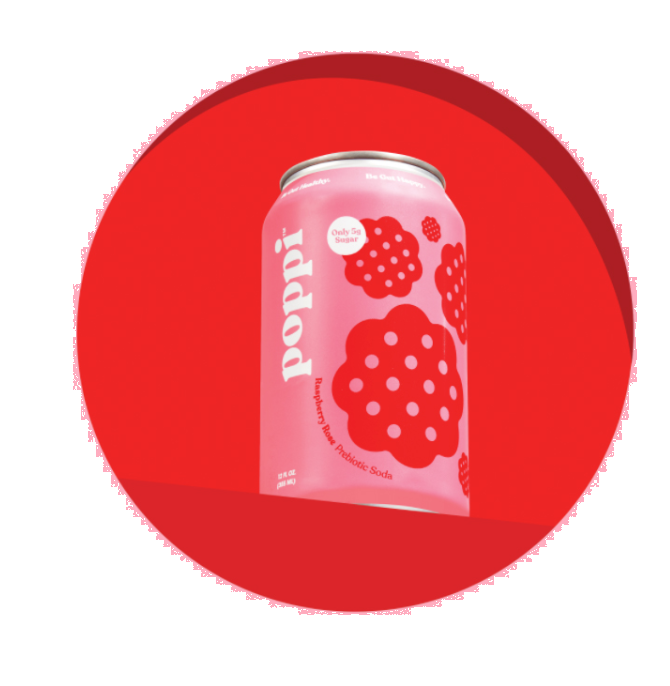
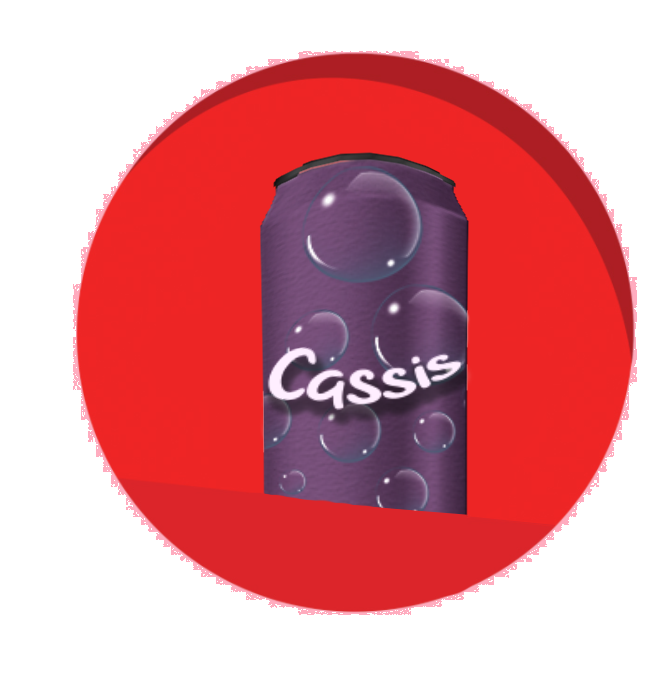
mooie pc website

Changed region(s): [[0.3881, 0.2143, 0.7164, 0.7653]]

diff --git a/index.html b/index.html
@@ -29,7 +29,7 @@
             <div class="header-left">
                 <h1 class="title">It's pop cultured.</h1>
                 <h3 class="subtitle">Fun(ctional) prebiotic soda for all.</h3>
-                <button class="shop-button">Shop pop</button>
+                <button onclick="scrollToItems()" class="shop-button">Shop pop</button>
             </div>
             <div class="header-right">
                 <img id="header-image" src="./src/img/header-image.png" alt="header-image" />
@@ -40,14 +40,14 @@
             <div class="morning-title">Pop of the morning to you</div>
             <img id="morning-image" src="./src/img/squirrel-image.png" alt="squirrel-image" />
             <img id="morning-under-image" src="./src/img/5pooints.png" alt="5points" />
-            <button id="morning-button">Shop pop</button>
+            <button onclick="scrollToItems()" id="morning-button">Shop pop</button>
         </div>
 
         <div id="story-link" class="our-story-container">
             <div class="our-story-title">Once Upon a time in Runeterra</div>
             <div class="our-story-text">There was a man named Anthony who started drinking apple cider vinegar (ACV), hoping it would help alleviate his chronic health issues. Lo and behold, his symptoms quickly improved! The only problem was, he hated the taste. So, he rolled up his sleeves and got to work experimenting with flavors at home, making his own delicious drink infused with ACV. The rest is pop history.</div>
             <img id="our-story-image" src="./src/img/bull-image.png" alt="our-story-image" />
-            <button class="our-story-button">Shop pop</button>
+            <button onclick="scrollToItems()" class="our-story-button">Shop pop</button>
         </div>
 
         <div id="shop-link" class="items-container">
@@ -59,32 +59,32 @@
 
             <div class="items-grid-container">
                 <div class="shop-item">
-                    <img class="shop-item-image" src="./src/img/shop-item-image.png" alt="shop-item-image" />
+                    <img class="shop-item-image" src="./src/img/6.png" alt="shop-item-image" />
                     <p class="shop-item-title">Casis</p>
                     <button class="shop-item-button">Add to cart</button>
                 </div>
                 <div class="shop-item">
-                    <img class="shop-item-image" src="./src/img/shop-item-image.png" alt="shop-item-image" />
+                    <img class="shop-item-image" src="./src/img/5.png" alt="shop-item-image" />
                     <p class="shop-item-title">Mystery Flavor</p>
                     <button class="shop-item-button">Add to cart</button>
                 </div>
                 <div class="shop-item">
-                    <img class="shop-item-image" src="./src/img/shop-item-image.png" alt="shop-item-image" />
-                    <p class="shop-item-title">Orange</p>
+                    <img class="shop-item-image" src="./src/img/1.png" alt="shop-item-image" />
+                    <p class="shop-item-title">Ornnanje</p>
                     <button class="shop-item-button">Add to cart</button>
                 </div>
                 <div class="shop-item">
-                    <img class="shop-item-image" src="./src/img/shop-item-image.png" alt="shop-item-image" />
-                    <p class="shop-item-title">Tonic</p>
+                    <img class="shop-item-image" src="./src/img/4.png" alt="shop-item-image" />
+                    <p class="shop-item-title">Toonic</p>
                     <button class="shop-item-button">Add to cart</button>
                 </div>
                 <div class="shop-item">
-                    <img class="shop-item-image" src="./src/img/shop-item-image.png" alt="shop-item-image" />
-                    <p class="shop-item-title">Cola</p>
+                    <img class="shop-item-image" src="./src/img/3.png" alt="shop-item-image" />
+                    <p class="shop-item-title">Kola</p>
                     <button class="shop-item-button">Add to cart</button>
                 </div>
                 <div class="shop-item">
-                    <img class="shop-item-image" src="./src/img/shop-item-image.png" alt="shop-item-image" />
+                    <img class="shop-item-image" src="./src/img/2.png" alt="shop-item-image" />
                     <p class="shop-item-title">Lemon</p>
                     <button class="shop-item-button">Add to cart</button>
                 </div>
@@ -109,3 +109,12 @@
     </footer>
 </body>
 </html>
+
+<script>
+    // make a function for a button that when its clicked it scrolls to id shop-link
+    function scrollToItems() {
+        document.querySelector('#shop-link').scrollIntoView({ 
+            behavior: 'smooth' 
+        });
+    }
+</script>

diff --git a/public/index.html b/public/index.html
@@ -1,0 +1,89 @@
+<!DOCTYPE html>
+<html>
+  <head>
+    <meta charset="utf-8">
+    <meta name="viewport" content="width=device-width, initial-scale=1">
+    <title>Welcome to Firebase Hosting</title>
+
+    <!-- update the version number as needed -->
+    <script defer src="/__/firebase/10.7.1/firebase-app-compat.js"></script>
+    <!-- include only the Firebase features as you need -->
+    <script defer src="/__/firebase/10.7.1/firebase-auth-compat.js"></script>
+    <script defer src="/__/firebase/10.7.1/firebase-database-compat.js"></script>
+    <script defer src="/__/firebase/10.7.1/firebase-firestore-compat.js"></script>
+    <script defer src="/__/firebase/10.7.1/firebase-functions-compat.js"></script>
+    <script defer src="/__/firebase/10.7.1/firebase-messaging-compat.js"></script>
+    <script defer src="/__/firebase/10.7.1/firebase-storage-compat.js"></script>
+    <script defer src="/__/firebase/10.7.1/firebase-analytics-compat.js"></script>
+    <script defer src="/__/firebase/10.7.1/firebase-remote-config-compat.js"></script>
+    <script defer src="/__/firebase/10.7.1/firebase-performance-compat.js"></script>
+    <!-- 
+      initialize the SDK after all desired features are loaded, set useEmulator to false
+      to avoid connecting the SDK to running emulators.
+    -->
+    <script defer src="/__/firebase/init.js?useEmulator=true"></script>
+
+    <style media="screen">
+      body { background: #ECEFF1; color: rgba(0,0,0,0.87); font-family: Roboto, Helvetica, Arial, sans-serif; margin: 0; padding: 0; }
+      #message { background: white; max-width: 360px; margin: 100px auto 16px; padding: 32px 24px; border-radius: 3px; }
+      #message h2 { color: #ffa100; font-weight: bold; font-size: 16px; margin: 0 0 8px; }
+      #message h1 { font-size: 22px; font-weight: 300; color: rgba(0,0,0,0.6); margin: 0 0 16px;}
+      #message p { line-height: 140%; margin: 16px 0 24px; font-size: 14px; }
+      #message a { display: block; text-align: center; background: #039be5; text-transform: uppercase; text-decoration: none; color: white; padding: 16px; border-radius: 4px; }
+      #message, #message a { box-shadow: 0 1px 3px rgba(0,0,0,0.12), 0 1px 2px rgba(0,0,0,0.24); }
+      #load { color: rgba(0,0,0,0.4); text-align: center; font-size: 13px; }
+      @media (max-width: 600px) {
+        body, #message { margin-top: 0; background: white; box-shadow: none; }
+        body { border-top: 16px solid #ffa100; }
+      }
+    </style>
+  </head>
+  <body>
+    <div id="message">
+      <h2>Welcome</h2>
+      <h1>Firebase Hosting Setup Complete</h1>
+      <p>You're seeing this because you've successfully setup Firebase Hosting. Now it's time to go build something extraordinary!</p>
+      <a target="_blank" href="https://firebase.google.com/docs/hosting/">Open Hosting Documentation</a>
+    </div>
+    <p id="load">Firebase SDK Loading&hellip;</p>
+
+    <script>
+      document.addEventListener('DOMContentLoaded', function() {
+        const loadEl = document.querySelector('#load');
+        // // 🔥🔥🔥🔥🔥🔥🔥🔥🔥🔥🔥🔥🔥🔥🔥🔥🔥🔥🔥🔥🔥🔥🔥🔥🔥🔥🔥🔥🔥🔥🔥
+        // // The Firebase SDK is initialized and available here!
+        //
+        // firebase.auth().onAuthStateChanged(user => { });
+        // firebase.database().ref('/path/to/ref').on('value', snapshot => { });
+        // firebase.firestore().doc('/foo/bar').get().then(() => { });
+        // firebase.functions().httpsCallable('yourFunction')().then(() => { });
+        // firebase.messaging().requestPermission().then(() => { });
+        // firebase.storage().ref('/path/to/ref').getDownloadURL().then(() => { });
+        // firebase.analytics(); // call to activate
+        // firebase.analytics().logEvent('tutorial_completed');
+        // firebase.performance(); // call to activate
+        //
+        // // 🔥🔥🔥🔥🔥🔥🔥🔥🔥🔥🔥🔥🔥🔥🔥🔥🔥🔥🔥🔥🔥🔥🔥🔥🔥🔥🔥🔥🔥🔥🔥
+
+        try {
+          let app = firebase.app();
+          let features = [
+            'auth', 
+            'database', 
+            'firestore',
+            'functions',
+            'messaging', 
+            'storage', 
+            'analytics', 
+            'remoteConfig',
+            'performance',
+          ].filter(feature => typeof app[feature] === 'function');
+          loadEl.textContent = `Firebase SDK loaded with ${features.join(', ')}`;
+        } catch (e) {
+          console.error(e);
+          loadEl.textContent = 'Error loading the Firebase SDK, check the console.';
+        }
+      });
+    </script>
+  </body>
+</html>

diff --git a/src/css/style.css b/src/css/style.css
@@ -264,3 +264,15 @@ footer {
     height: 100px;
     border: none;
 }
+
+button:hover {
+    cursor: pointer;
+}
+
+/* media query max-width 1024px */
+@media (max-width: 1024px) {
+    .header-container {
+        flex-direction: column;
+        height: 100vh;
+    }
+}
